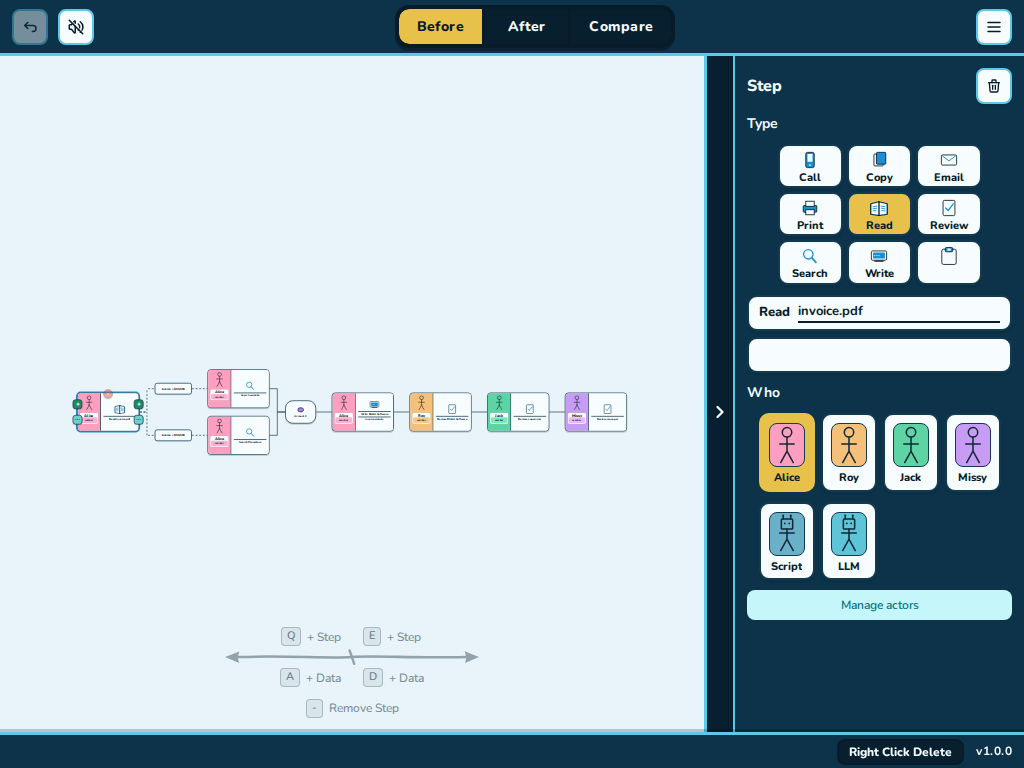
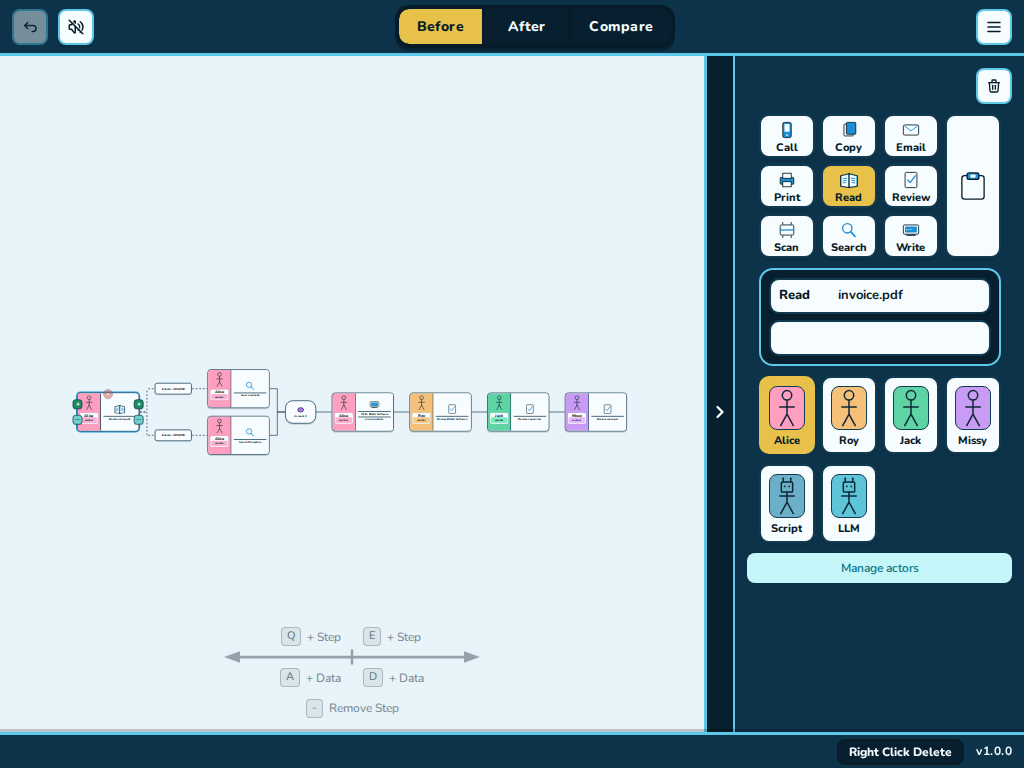
feat(improve-43): straighten spawn compass
Drop the bowed shaft and tilted tick. The Q/E · A/D divider is a straight chunky double-headed arrow with a vertical center mark.

Changed region(s): [[0.7188, 0.0938, 1.0, 0.8125], [0.3438, 0.8438, 0.375, 0.875]]

diff --git a/src/app/components/CanvasHelper.tsx b/src/app/components/CanvasHelper.tsx
@@ -23,7 +23,7 @@ function Chip({ item }: { item: Hint }) {
   );
 }
 
-/** Chunky double-headed compass: left/right spawn, not a CAD axis (P-01, P-06). */
+/** Straight chunky double-headed compass: left/right spawn (P-01, P-06). */
 function SpawnArrows() {
   return (
     <svg
@@ -34,22 +34,10 @@ function SpawnArrows() {
       height="18"
       aria-hidden
     >
-      <path
-        d="M 20 9.1 C 72 7.2, 108 10.8, 134 9 C 160 7.2, 198 10.6, 248 8.9"
-        fill="none"
-        stroke="currentColor"
-        strokeWidth="2.55"
-        strokeLinecap="round"
-      />
-      <path d="M 21.5 3.4 L 7 9.05 L 21.2 14.9 Q 18.6 9.1 21.5 3.4 Z" fill="currentColor" />
-      <path d="M 246.5 3.2 L 261 8.95 L 247 15.1 Q 249.4 9 246.5 3.2 Z" fill="currentColor" />
-      <path
-        d="M 131.6 2.4 L 136.2 15.8"
-        fill="none"
-        stroke="currentColor"
-        strokeWidth="2.45"
-        strokeLinecap="round"
-      />
+      <line x1="16" y1="9" x2="252" y2="9" stroke="currentColor" strokeWidth="2.75" strokeLinecap="round" />
+      <path d="M 22 3.2 L 6 9 L 22 14.8 Z" fill="currentColor" />
+      <path d="M 246 3.2 L 262 9 L 246 14.8 Z" fill="currentColor" />
+      <line x1="134" y1="2.4" x2="134" y2="15.6" stroke="currentColor" strokeWidth="2.5" strokeLinecap="round" />
     </svg>
   );
 }

diff --git a/e2e/improve-43-spawn-compass.spec.ts b/e2e/improve-43-spawn-compass.spec.ts
@@ -12,6 +12,21 @@ test.describe("Improvement 43 — spawn hint compass", () => {
     await expect(spawn).toContainText("+ Data");
     await expect(spawn.locator("[data-spawn-compass]")).toBeVisible();
     await expect(spawn).not.toContainText("|");
+    const geom = await spawn.locator("[data-spawn-compass]").evaluate((el) => {
+      const svg = el as SVGSVGElement;
+      const shaft = svg.querySelector("line");
+      const tick = svg.querySelectorAll("line")[1];
+      if (!shaft || !tick) return null;
+      return {
+        shaftY1: shaft.getAttribute("y1"),
+        shaftY2: shaft.getAttribute("y2"),
+        tickX1: tick.getAttribute("x1"),
+        tickX2: tick.getAttribute("x2"),
+      };
+    });
+    expect(geom).toBeTruthy();
+    expect(geom!.shaftY1).toBe(geom!.shaftY2);
+    expect(geom!.tickX1).toBe(geom!.tickX2);
     await capturePage(page, `${EVIDENCE}/spawn-compass-1440.png`);
   });
 });

diff --git a/src/app/components/CanvasHelper.test.tsx b/src/app/components/CanvasHelper.test.tsx
@@ -51,6 +51,11 @@ test("selected Tile spawn hints are Q/E Step and A/D Data with direction arrows"
   expect(text).toMatch(/D/);
   expect(text).toMatch(/\+ Data/);
   expect(host.querySelector("[data-spawn-compass]")).not.toBeNull();
+  const svg = host.querySelector("[data-spawn-compass]");
+  const shaft = svg?.querySelector("line");
+  const tick = svg?.querySelectorAll("line")[1];
+  expect(shaft?.getAttribute("y1")).toBe(shaft?.getAttribute("y2"));
+  expect(tick?.getAttribute("x1")).toBe(tick?.getAttribute("x2"));
   expect(text).not.toMatch(/\|/);
   expect(host.textContent ?? "").toMatch(/Remove Step/);
   expect(host.textContent ?? "").not.toMatch(/Right-click/);

diff --git a/.docs/handoff.md b/.docs/handoff.md
@@ -2297,3 +2297,14 @@ Corrections in the same chat before the next slice starts get their own short en
 - Status: COMPLETE
 - Commit: `feat(improve-45): select parent after deleting a Tile`
 
+## Improvement 43 — correction 1 — 2026-09-09
+
+- Requested: The spawn compass looked terrible — wiggly shaft, tick not straight.
+- Changed: Straight level shaft, vertical center tick, symmetric filled heads. Same quiet ink; `|` pipes stay gone. Tests assert the shaft Ys match and the tick Xs match.
+- Tests and exact results:
+  - `npm run build` — pass (`tsc --noEmit && vite build`; Vite 8.2.2; existing chunk-size warning). Node 24.
+  - `npm run test:unit` — CanvasHelper 3 tests pass (full suite not re-run; concurrent inspector WIP in the tree).
+  - `npm run test:e2e` — `e2e/improve-43-spawn-compass.spec.ts` (2), `e2e/canvas-helper-hints.spec.ts` (1) all pass (3).
+- Status: COMPLETE
+- Commit: `feat(improve-43): straighten spawn compass`
+

diff --git a/.docs/IMPROVEMENTS.md b/.docs/IMPROVEMENTS.md
@@ -861,7 +861,8 @@ Approved 2026-09-09. Visual-only restyle of the selected-tile Q/E · A/D diagram
 ## Locked decisions
 
 - Keep the two-line Q/E Step and A/D Data map and the quiet keycaps.
-- Replace the CAD shaft, CSS triangles, and `|` pipes with one inline SVG: chunky filled heads, a slightly bowed round-cap shaft, and one tilted center tick.
+- Replace the CAD shaft, CSS triangles, and `|` pipes with one inline SVG: **straight** chunky filled heads, a level round-cap shaft, and a vertical center tick. No bow, no tilted stroke.
+
 - Same muted ink as the hint strip. After still shows Q/E only.
 - No new runtime dependency.
 

diff --git a/.docs/VISUAL_IMPROVEMENTS.md b/.docs/VISUAL_IMPROVEMENTS.md
@@ -273,3 +273,10 @@ Newest last. Issue and resolution stay short. No after-screenshots for gestures.
 - Attachments:
   ![delete selects parent](.docs/visual-improvements/2026-09-09-delete-selects-parent.gif)
 
+## 2026-09-09 — spawn compass was wiggly
+
+- Issue: The Q/E · A/D compass shaft bowed and the center tick leaned, so it read as a shaky sketch.
+- Resolution: Correction — straight shaft, vertical tick, symmetric heads. Same quiet ink.
+- Attachments:
+  ![spawn compass wobbly](.docs/visual-improvements/2026-09-09-spawn-compass-wobbly.png)
+
